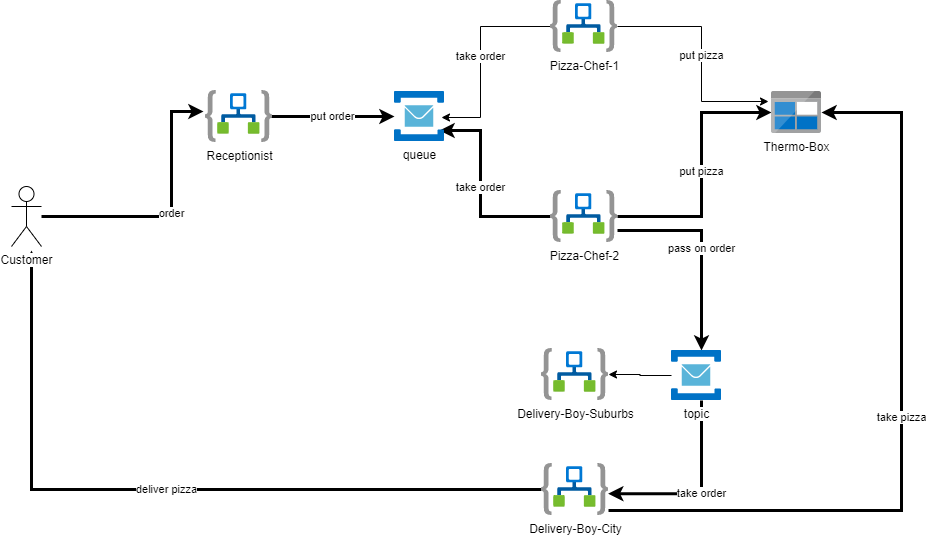
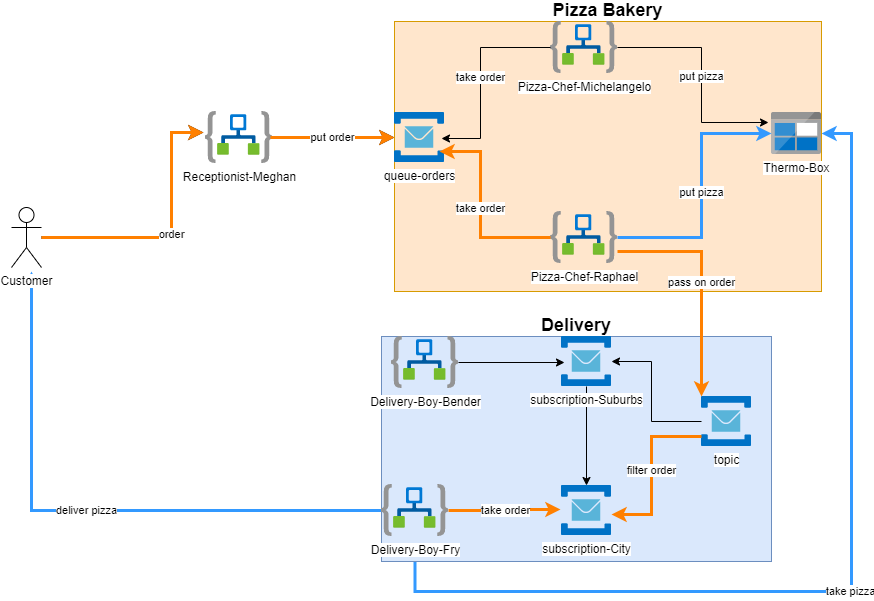
docs: :memo: update documentation for lab-3

diff --git a/lab-3/README.md b/lab-3/README.md
@@ -2,49 +2,77 @@
 
 ![Architecture Lab-1](../docs/static/architecture-Lab-3.png)
 
-### Deployment
-
-Deploy the lab:
+### Deploying the resources
 
 ```bash
-rg=rg-pizza-lab3
-az group create -n $rg -l westeurope
-az deployment group create -f lab-3/azuredeploy.bicep -g $rg
+az group create \
+  --name 'pizza-lab-3'\
+  --location westeurope \
+  --tags workshop=azureIntegration
+
+az deployment group create \
+  --resource-group 'pizza-lab-3' \
+  --template-file ./azuredeploy.bicep \
+  --parameters pizzaChefName='michelangelo' \
+      deliveryBoyName='fry' \
+      receptionistName='meghan' \
+      deliveryZoneName='city'
 ```
 
-Deploy additional pizza chefs:
+> **Note**: After the deployment succeeded, you need to manually authorize the o365 connection via the Azure portal (Edit API connection/Authorize/Save). You need to use an o365 account. Personal accounts without o365 license won't work.
 
-```bash
-rg=rg-pizza-lab3
-az deployment group create -f lab-3/pizza-chef.bicep -g $rg --parameters pizzaChefName=michelangelo
-```
+### Calling the receptionist from Postman
 
-Deploy additional delivery zones:
-
-```bash
-rg=rg-pizza-lab3
-serviceBusName=$(az servicebus namespace list -g $rg -o table | awk 'NR>2{print $5}')
-az deployment group create -f lab-3/delivery-zone.bicep -g $rg --parameters deliveryZone=suburb serviceBusName=$serviceBusName
-```
-
-Deploy additional delivery boys:
-
-```bash
-rg=rg-pizza-lab3
-az deployment group create -f lab-3/delivery-boy.bicep -g $rg --parameters deliveryBoyName=fry deliveryZone=city
-
-az deployment group create -f lab-3/delivery-boy.bicep -g $rg --parameters deliveryBoyName=bender deliveryZoneName=suburb
-```
-
-### Calling the pizza chef from Postman
-
-Create a POST request in Postman and add the following json body:
+Create a POST request in [Postman](https://www.postman.com/downloads/) and add the following json body:
 
 ```json
 {
   "customer_name": "{{$randomFirstName}}",
   "customer_address": "some.customer@outlook.com",
-  "pizza_type": "Hawaii",
+  "pizza_type": "Diavola",
   "delivery_zone": "city"
 }
 ```
+
+### Deploying additional pizza chefs
+
+```bash
+az deployment group create \
+  --resource-group 'pizza-lab-3' \
+  --template-file ./pizza-chef.bicep \
+  --parameters pizzaChefName='raphael'
+```
+
+### Deploying additional delivery zones
+
+```bash
+serviceBusName=$(az servicebus namespace list -g pizza-lab-3 -o tsv --query '[0].name')
+
+az deployment group create \
+  --template-file ./delivery-zone.bicep \
+  --resource-group 'pizza-lab-3' \
+  --parameters deliveryZone='suburb' \
+    serviceBusName=$serviceBusName
+```
+
+### Deploying additional delivery boys
+
+```bash
+az deployment group create \
+  --resource-group 'pizza-lab-3' \
+  --template-file ./delivery-boy.bicep \
+  --parameters deliveryZone='suburb' \
+      deliveryBoyName='bender'
+```
+
+New delivery boys need to be assigned to an existing deliveryZone. Use the following command to see all currenty available delivery zones (topic subscriptions)
+
+```bash
+serviceBusName=$(az servicebus namespace list -g pizza-lab-3 -o tsv --query '[0].name')
+az servicebus topic subscription list \
+  --resource-group 'pizza-lab-3' \
+  --namespace-name $serviceBusName \
+  --topic-name pizza-delivery --query '[].name'
+```
+
+>**Note:** The prefix `delivery-zone-` is automatically added during deployment.
